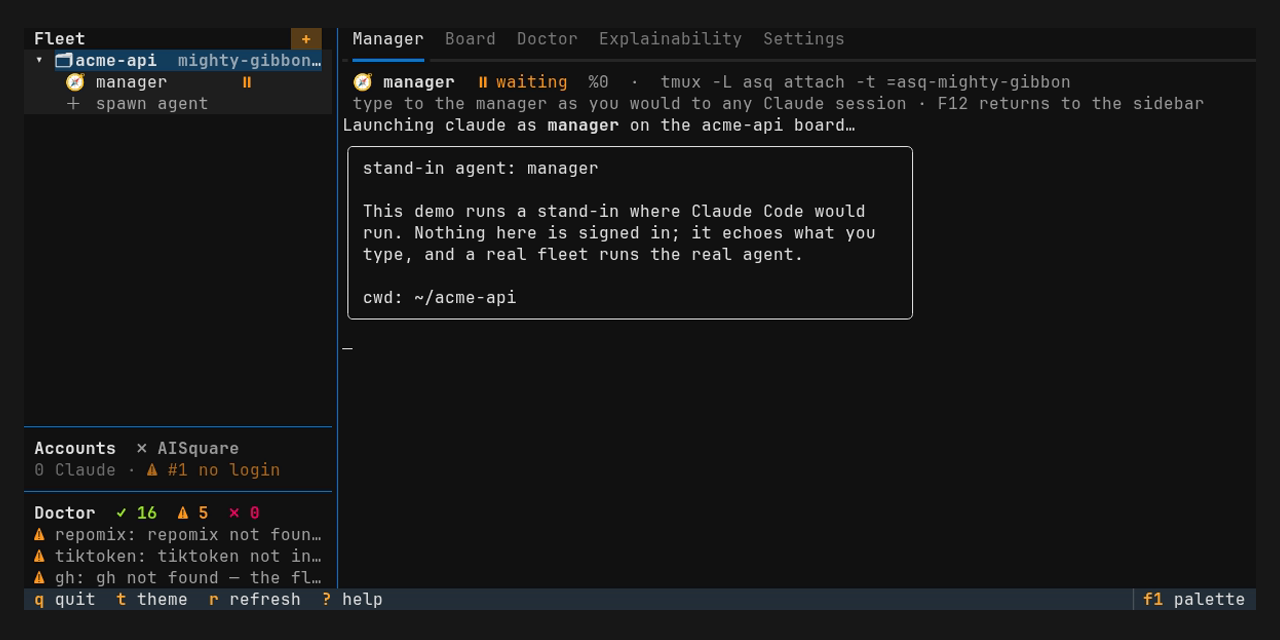
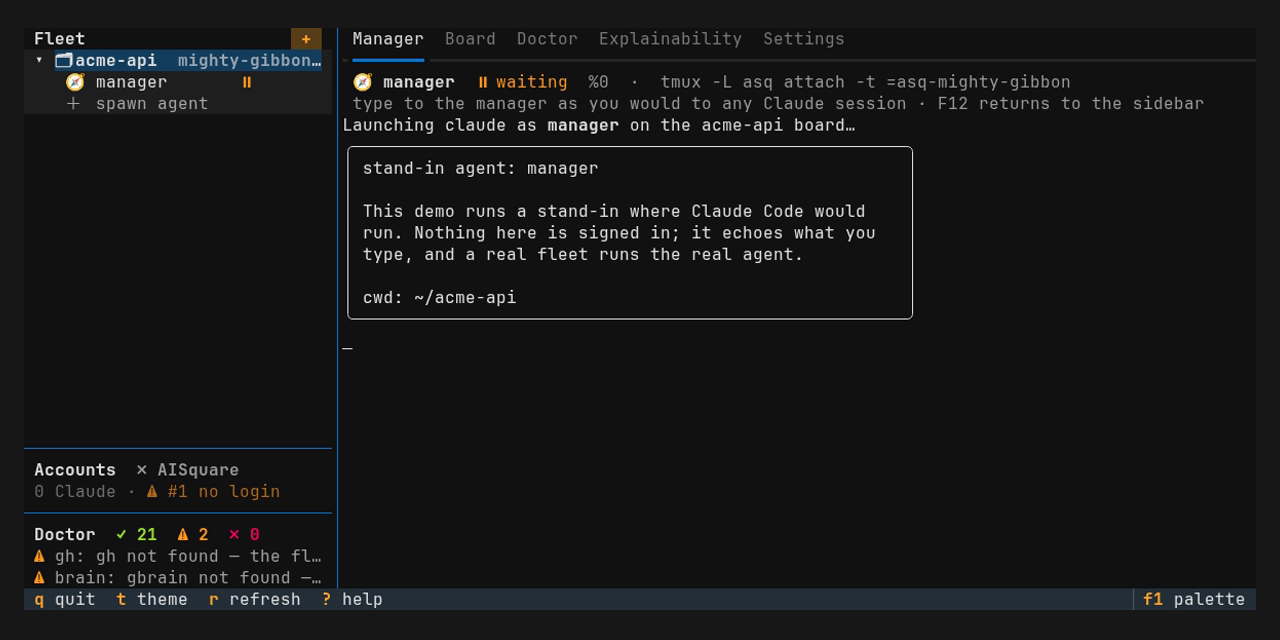
fix(ui): step 2 names switched-off hooks instead of offering Connect, and the demo tape presses Enter on Start manager
With #247 on rc/first-run, `"disableAllHooks": true` reads as not connected, and
`agents connect` cannot change it. Following the shared check's contract, the
first-run probe asks `core.agents.hooks_disabled` when Claude Code is not
connected. Step 2 then names the settings file and the key instead of offering a
Connect that could never help, and the refresh tick notices once the key is gone.

Onboarding now hands the keyboard to Start manager, so docs/demo.tape presses
Enter right after "has no manager yet" instead of three Tabs. docs/demo.gif and
docs/demo/welcome.png were re-rendered with docs/demo/render.sh: 39 frames, no
traceback, the last showing the stand-in, 276,811 bytes.

Changed region(s): [[0.0, 0.6875, 0.25, 0.9375]]

diff --git a/src/aisquare/services/first_run.py b/src/aisquare/services/first_run.py
@@ -110,6 +110,9 @@ class ClaudeState:
     version: str | None = None
     connected: bool = False
     """aisquare's hooks are in the config dir a session from this shell reads."""
+    hooks_off: Path | None = None
+    """The settings file that switches every hook off (``"disableAllHooks": true``),
+    when one does: Connect cannot change it, so step 2 says so instead of offering it."""
     signed_in: bool | None = None
     """``None`` when this probe did not look (the periodic one skips it)."""
     problem: str | None = None
@@ -135,6 +138,14 @@ def _connected_default() -> bool:
     return agents_service.claude_code_connected()
 
 
+def _hooks_off_default() -> Path | None:
+    """The settings file that switches Claude Code's hooks off here, if one does."""
+    if not agent_core.hooks_disabled("claude-code"):
+        return None
+    where = agent_core.ambient_hook_dir("claude-code")
+    return where / "settings.json" if where is not None else None
+
+
 def _signed_in_default() -> bool:
     return accounts_core.signed_in(accounts_core.default_account())
 
@@ -145,6 +156,7 @@ def probe_claude(
     which: Callable[[str], str | None] = shutil.which,
     connected: Callable[[], bool] | None = None,
     signed_in: Callable[[], bool] | None = None,
+    hooks_off: Callable[[], Path | None] | None = None,
 ) -> ClaudeState:
     """Claude Code as the fleet will meet it. Starts no process; never raises.
 
@@ -154,7 +166,9 @@ def probe_claude(
     one shared answer to "is Claude Code connected" (``agents.claude_code_connected``),
     which the doctor's row asks as well. ``sign_in`` reads the plain ``claude``'s
     login, which lives in a file that can be tens of megabytes, so the periodic
-    re-check leaves it out.
+    re-check leaves it out. Not connected, it asks ``core.agents.hooks_disabled``
+    first, as the shared check's contract says: ``"disableAllHooks": true`` reads as
+    not connected, and no Connect can change it.
     """
     problems: list[str] = []
     try:
@@ -175,6 +189,12 @@ def probe_claude(
     except Exception as exc:
         problems.append(f"could not read the hooks: {_why(exc)}")
         is_connected = False
+    switched_off: Path | None = None
+    if not is_connected:
+        try:
+            switched_off = (hooks_off or _hooks_off_default)()
+        except Exception as exc:
+            problems.append(f"could not read the hook settings: {_why(exc)}")
     signed: bool | None = None
     if sign_in and binary is not None:
         try:
@@ -187,6 +207,7 @@ def probe_claude(
         binary=binary,
         version=version,
         connected=is_connected,
+        hooks_off=switched_off,
         signed_in=signed,
         problem="; ".join(problems) or None,
     )

diff --git a/tests/test_first_run.py b/tests/test_first_run.py
@@ -9,6 +9,7 @@ that must NOT be spawned twice, the ``prompt`` that must NOT reach a spawn.
 
 from __future__ import annotations
 
+import json
 import subprocess
 import sys
 from collections.abc import Sequence
@@ -214,6 +215,32 @@ def test_a_probe_that_fails_is_said_not_raised(tmp_path: Path) -> None:
     state = first_run.probe_claude(which=lambda name: binary, connected=broken, signed_in=broken)
     assert state.found and not state.connected and state.signed_in is None
     assert state.problem is not None and "settings.json is a directory" in state.problem
+
+
+def test_hooks_switched_off_are_named_and_connect_is_not_their_answer(tmp_path: Path) -> None:
+    """``"disableAllHooks": true`` reads as not connected, and Connect cannot change it."""
+    where = agent_core.ambient_hook_dir("claude-code")
+    assert where is not None
+    where.mkdir(parents=True)
+    settings = where / "settings.json"
+    binary = str(tmp_path / "claude")
+
+    def probe() -> first_run.ClaudeState:
+        return first_run.probe_claude(which=lambda name: binary, signed_in=lambda: True)
+
+    settings.write_text(json.dumps({"disableAllHooks": True}), encoding="utf-8")
+    off = probe()
+    assert (off.connected, off.hooks_off) == (False, settings)
+    settings.write_text(json.dumps({}), encoding="utf-8")  # control: hooks merely missing
+    assert (probe().connected, probe().hooks_off) == (False, None)
+
+    def never() -> Path | None:
+        raise AssertionError("asked whether hooks are off for a connected Claude Code")
+
+    connected = first_run.probe_claude(
+        which=lambda name: binary, connected=lambda: True, signed_in=lambda: True, hooks_off=never
+    )
+    assert connected.connected and connected.hooks_off is None
 
 
 def test_connect_is_the_doctors_own_fix() -> None:

diff --git a/src/aisquare/cli/ui/views/welcome.py b/src/aisquare/cli/ui/views/welcome.py
@@ -214,6 +214,12 @@ def claude_text(claude: ClaudeState | None, *, platform: str) -> Text:
     if claude.connected:
         text.append("\n✓ ", style="green")
         text.append("connected — the manager gets its instructions through aisquare's hooks")
+    elif claude.hooks_off is not None:
+        text.append("\n✗ ", style="red")
+        text.append(f'hooks are switched off ("disableAllHooks": true in {claude.hooks_off}) — ')
+        text.append(
+            "Connect cannot change that. Remove it; this page notices within a few seconds."
+        )
     else:
         text.append("\n✗ ", style="red")
         text.append("not connected — Connect installs aisquare's hooks, which bring the manager ")
@@ -878,7 +884,9 @@ class WelcomeView(VerticalScroll):
         self.query_one("#claude-status", Static).update(body)
         found = claude is not None and claude.found
         connect = self.query_one("#claude-connect", Button)
-        connect.display = found and claude is not None and not claude.connected
+        connect.display = (
+            found and claude is not None and not claude.connected and claude.hooks_off is None
+        )
         self.query_one("#claude-sign-in", Button).display = (
             found and claude is not None and claude.signed_in is False
         )

diff --git a/tests/test_ui_welcome.py b/tests/test_ui_welcome.py
@@ -382,6 +382,19 @@ def test_a_connect_that_fails_says_why() -> None:
     assert again  # Connect is still there to try again
 
 
+def test_hooks_switched_off_are_named_instead_of_offering_connect(tmp_path: Path) -> None:
+    switched_off = dataclasses.replace(UNHOOKED, hooks_off=tmp_path / ".claude" / "settings.json")
+
+    async def go(pilot: Pilot[None], page: WelcomeView, host: Host) -> tuple[str, bool]:
+        return card(page, "claude-status"), visible(page, "claude-connect")
+
+    text, connect = hosted(Machine(claude=[switched_off]), go)
+    assert '"disableAllHooks": true' in text and "Connect cannot change that" in text
+    assert not connect
+    # Control: hooks merely missing are what Connect is for.
+    assert hosted(Machine(claude=[UNHOOKED]), go)[1]
+
+
 def test_sign_in_opens_the_accounts_page() -> None:
     signed_out = dataclasses.replace(READY, signed_in=False)
 
